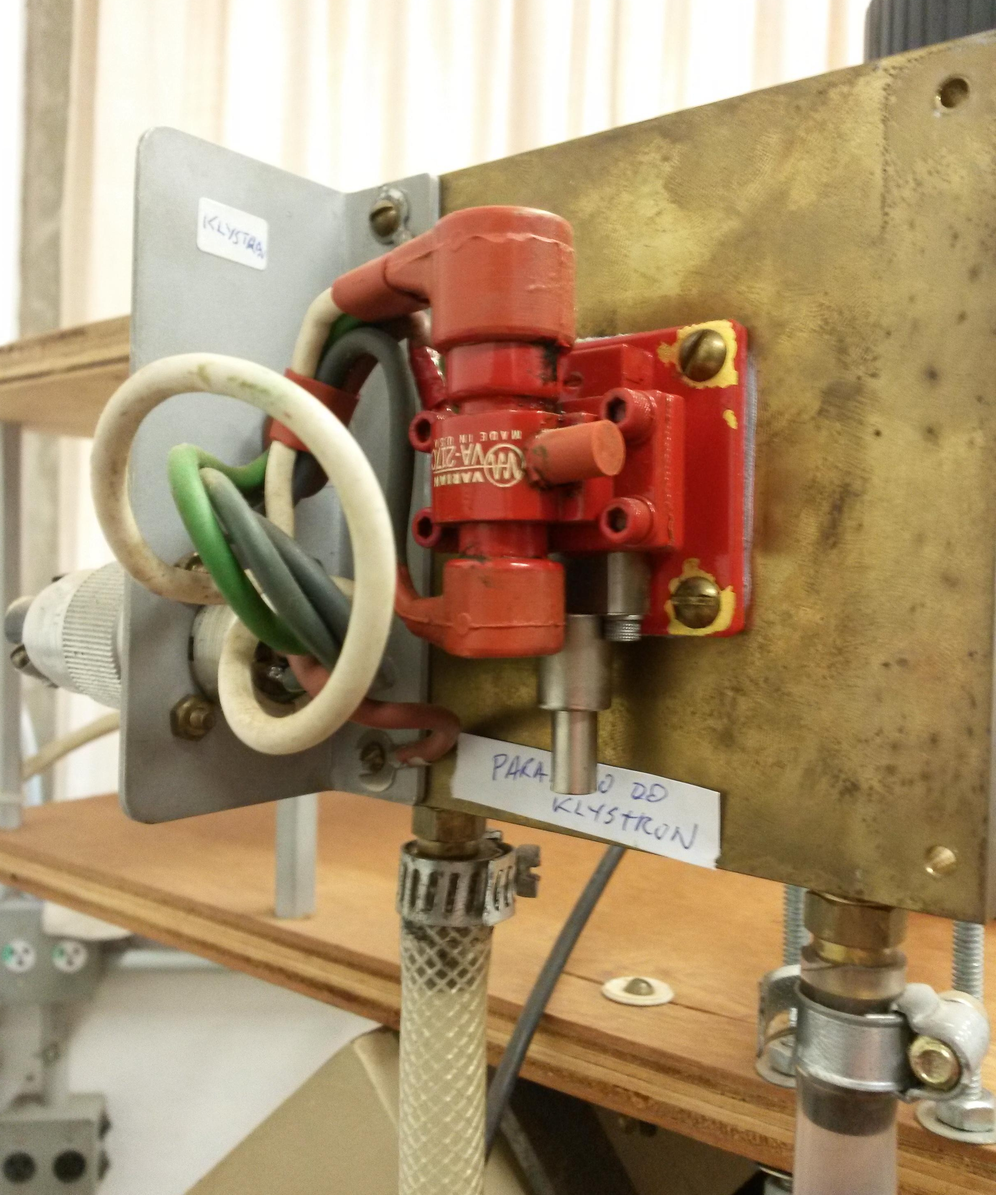
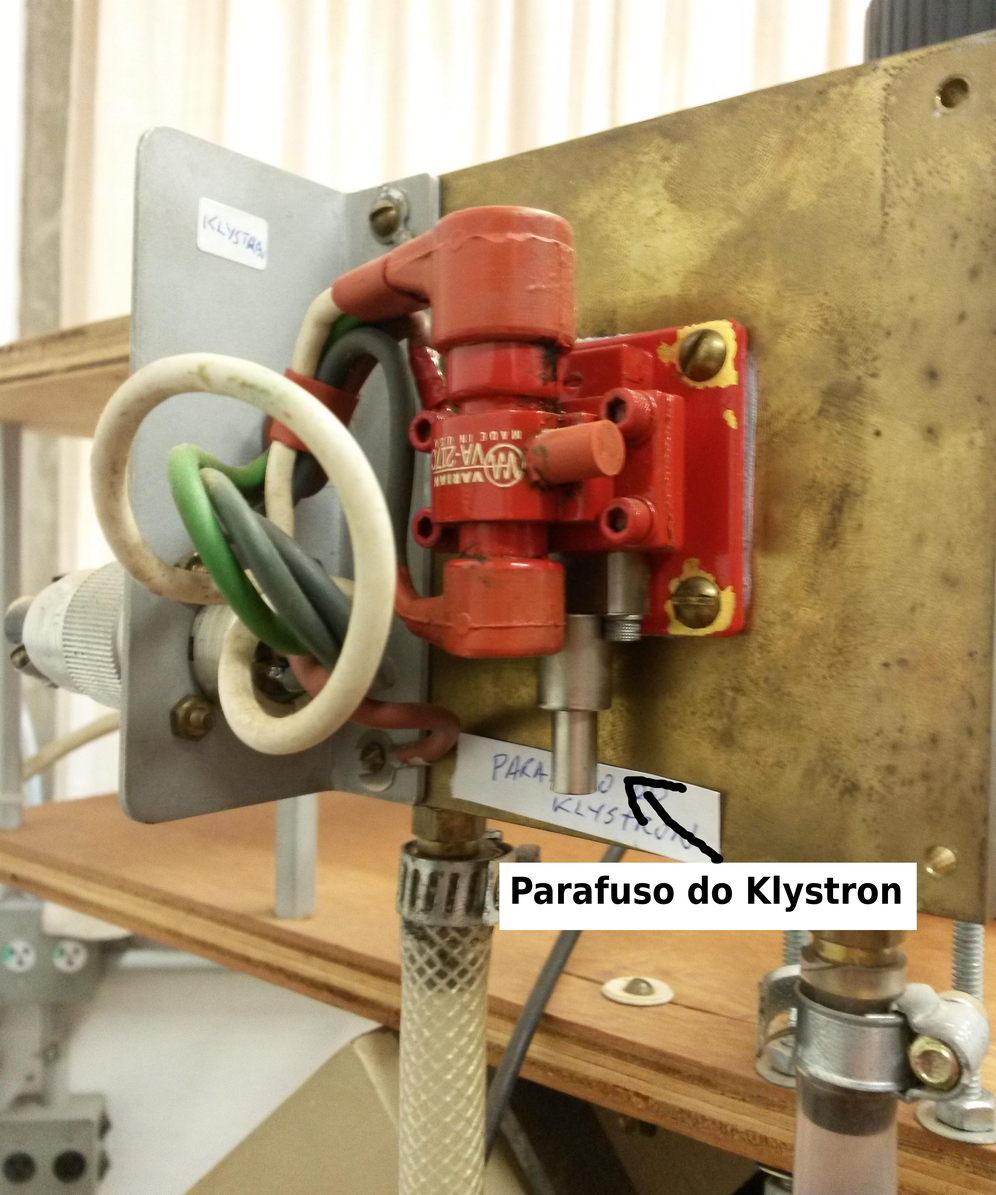
DOC: equipamentos, pequena mudancas

Changed region(s): [[0.4948, 0.6497, 0.9278, 0.8044]]

diff --git a/doc/conf.py b/doc/conf.py
@@ -67,9 +67,9 @@ author = 'Emilio Galera, Heitor de Bittencourt'
 # built documents.
 #
 # The short X.Y version.
-version = '0.1'
+version = '0.2'
 # The full version, including alpha/beta/rc tags.
-release = '0.1'
+release = '0.2'
 
 # The language for content autogenerated by Sphinx. Refer to documentation
 # for a list of supported languages.

diff --git a/doc/equipamento.rst b/doc/equipamento.rst
@@ -23,21 +23,33 @@ equipamento, a fim de que nada seja danificado:
            ligada antes destes dois procedimentos**.
 
 
-Equipamento
------------
-
-.. TODO diagrama de blocos arduino ligado no bagulho
+Descrição e funcionamento
+-------------------------
 
 O equipamento necessário para se fazer espectroscopia por EPR consiste
 de um magneto com controle de campo magnético, *klystron* para gerar a
 microonda, sistema de modulação de sinal, amplificador *lock-in* e
-registrador.
+registrador. Um diagrama da montagem encontra-se na figura
+:numref:`fig_diagrama_blocos_trambolho` a seguir.
+
+.. _fig_diagrama_blocos_trambolho:
+
+.. figure:: img/diagrama_blocos_trambolho.jpg
+   :scale: 80%
+   :align: center
+
+   Diagrama de blocos do EPR
 
 Além do registrador mecânico do resultado, foi adicionado um sistema digital
 de aquisição de dados, que consiste em um microcontrolador Arduino e uma
 interface através de um microcomputador.
 
 Todo o equipamento utilizado está registrado a seguir.
+
+Na figura :numref:`fig_sala` a seguir, vemos como era o equipamento antes da
+modernização. Na figura :numref:`fig_sala_nova` a seguir vemos a nova
+montagem, com o novo sistema de aquisição de dados utilizando um computador
+e Arduino para aquisição e visualização de dados.
 
 .. _fig_sala:
 
@@ -52,13 +64,46 @@ Todo o equipamento utilizado está registrado a seguir.
    substituído por um sistema de aquisição de dados utilizando um arduino e um
    microcomputador.
 
-.. _fig_diagrama_blocos_trambolho:
+.. _fig_sala_nova:
 
-.. figure:: img/diagrama_blocos_trambolho.jpg
+.. figure:: img/sala_nova.jpg
    :scale: 80%
    :align: center
 
-   Diagrama de blocos do EPR
+   TROCAR ESSA FIGURA AQUIIIIIIIIIIIIIIIIIIIIIIIIIIIIIIIIIIIIIIIIIIIIIIIIIIIIIIIIIIIIIIIIIIIIIIIIIIIIIIIIIIIIIIIIIIIIIIIIIIIIIIIIIIIIIIIII
+
+Neste experimento, é utilizada radiação eletromagnética de aproximadamente 10 GHz.
+Para emissão desta frequência, é utilizado um *klystron*, modelo VA-217CH, fabricado
+pela *Varian* e mostrado na figura :numref:`fig_klystron` abaixo. A fonte para
+ligá-lo está mostrada na figura :numref:`fig_fonte_klystron`.
+
+.. TODO principio de funcionamento do klystron aqui. Falar da porra da fonte dele também
+
+.. _fig_klystron:
+
+.. figure:: img/klystron.jpg
+   :scale: 80%
+   :align: center
+
+   Emissor de micro-ondas *klystron*. Note o parafuso cinza. Este ajusta o centro
+   de emissão de microondas.
+
+.. _fig_fonte_klystron:
+
+.. figure:: img/fonte_klystron.jpg
+   :scale: 80%
+   :align: center
+
+   Fonte do *klystron*. (1) medidor da corrente do feixe de etétrons. (2) formato
+   da função de onda do *klystron*, pode ser C.W (onda contínua), onda dente de
+   "serra" ou onda pulsada. (3) tensão do feixe de elétrons, (4) tensão do refletor
+   do feixe. (5) chave para ligar e desligar a fonte, note que a mesma possui 3
+   estágios, *off* para desligar o equipamento, *FIL* para ligar apenas a
+   tensão do filamento e *HV+FIL* para ligar a alta tensão e a tensão no filamento.
+   Não ligue a fonte direramente em *HV+FIl*, o filamento deve esquentar primeiro
+   na opção *FIL*.
+
+
 
 .. _fig_torneiras:
 
@@ -89,31 +134,6 @@ Todo o equipamento utilizado está registrado a seguir.
    :align: center
 
    Fonte do eletroímã. (1) botão para ligar e (2) botão para desligar a fonte.
-
-.. _fig_fonte_klystron:
-
-.. figure:: img/fonte_klystron.jpg
-   :scale: 80%
-   :align: center
-
-   Fonte do *klystron*. (1) medidor da corrente do feixe de etétrons. (2) formato
-   da função de onda do *klystron*, pode ser C.W (onda contínua), onda dente de
-   "serra" ou onda pulsada. (3) tensão do feixe de elétrons, (4) tensão do refletor
-   do feixe. (5) chave para ligar e desligar a fonte, note que a mesma possui 3
-   estágios, *off* para desligar o equipamento, *FIL* para ligar apenas a
-   tensão do filamento e *HV+FIL* para ligar a alta tensão e a tensão no filamento.
-   Não ligue a fonte direramente em *HV+FIl*, o filamento deve esquentar primeiro
-   na opção *FIL*.
-
-
-.. _fig_klystron:
-
-.. figure:: img/klystron.jpg
-   :scale: 80%
-   :align: center
-
-   Emissor de micro-ondas *klystron*. Note o parafuso cinza. Este ajusta o centro
-   de emissão de microondas.
 
 .. _fig_defasador:
 

diff --git a/doc/TODO.rst b/doc/TODO.rst
@@ -27,7 +27,7 @@ DOC:
 		escrever um texto
 
 	Novas fotos:
-		sala (com o computador rodando o programa)
+		sala (com o computador rodando o programa). Salvar como sala_nova.jpg, ou mudar o nome do arquivo no equipamentos.rst
 
 		controle de varredura de campo (nao temos com o novo botao selecao Arduino/Manual)
 
@@ -39,6 +39,9 @@ DOC:
 
 	Testes:
 		segunda parte, sobre o efeito das constantes de tempo, falar da porra das referencias 3 e 4.
+
+	PDF: jogar coisas pra apêndice
+
 python:
 	reduzir delay pra 1 ms ou menos
 
@@ -55,3 +58,5 @@ python:
 	limpar o codigo
 
 	colocar os prints caso flag de verbose seja usada
+
+	fazer rodar no pc da sala
